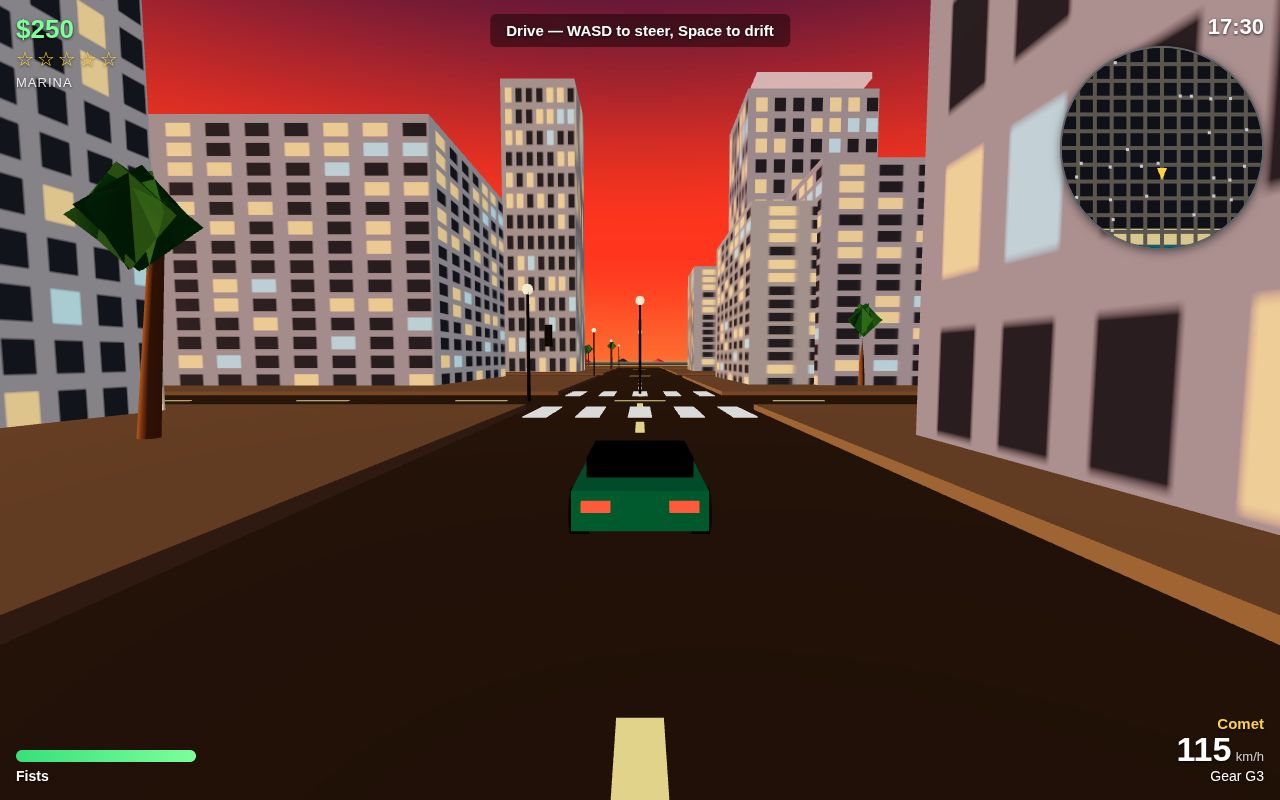
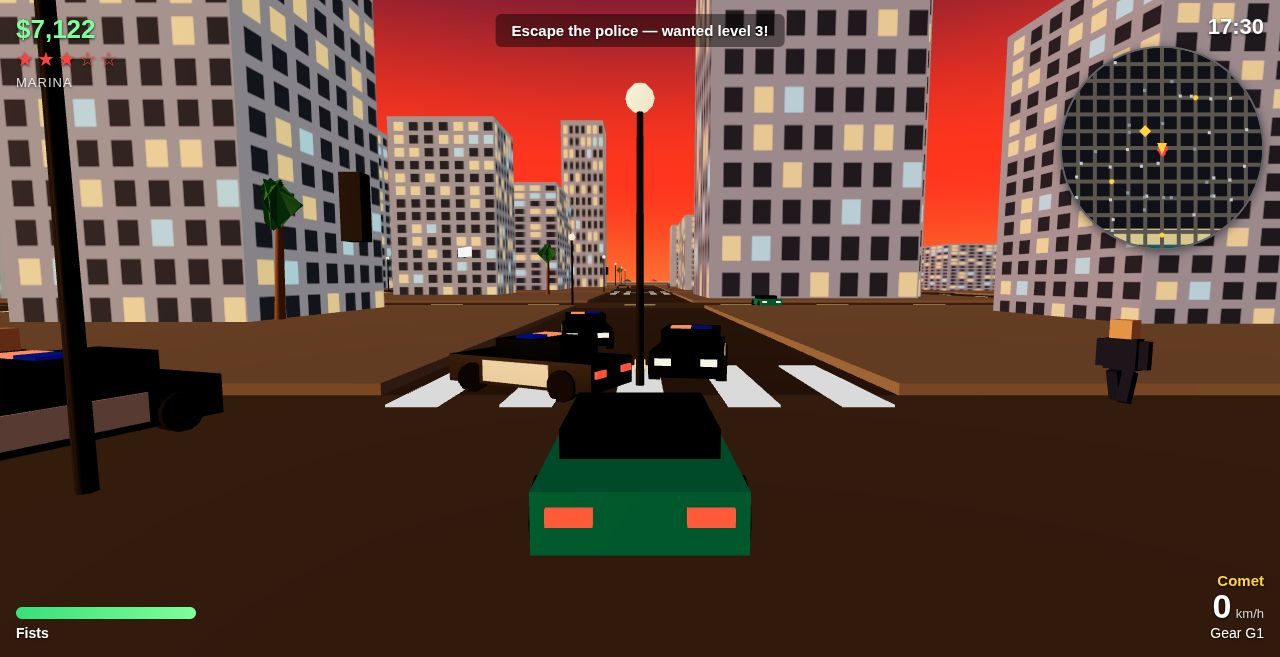
3d-systems: brighter night, staged police-chase cover, systems gates in main.ts
- engine.js: night lighting lifted (moon 0.6, hemi 0.9, ambient 1.0) so
  the neon-night shot reads — car + road were a black void at the old
  levels; still a night sky with lit windows.
- main.js: chase shot stages Dante's Comet stationary with two police
  cars closing in ahead (flashing light bars in frame) + two behind;
  a moving player outran every staged police car before the shot
  (closing ~50 m/s, ~2 sim-s to the screenshot), so no police car was
  ever visible in the cover. autoDrive only for 'drive' now.
- main.ts: gates for the five systems files (traffic, pedestrians,
  police + spawnChase, missions + startMission, weapons).
- Screenshots retaken (playtest run 17: ALL PASS 32/32, 0 console
  errors, 0 failed requests); all four viewed, all <=256 KiB.

diff --git a/game/src/main.js b/game/src/main.js
@@ -408,11 +408,22 @@ function stageShot() {
       engine.setTime(21.5);
       time = 21.5;
     } else if (SHOT === 'chase') {
+      // Cover shot: Dante's Comet STATIONARY (speed 0, no autoDrive) with
+      // police cars closing in ahead — a moving player outruns every staged
+      // police car before the screenshot (closing speed ~50 m/s, ~2 sim-s to
+      // the shot), so the chase cars behind the camera never appear in frame.
       sports.x = 0; sports.z = 0; sports.heading = 0;
-      sports.speed = 22;
+      sports.speed = 0;
       engine.setTime(17.5);
       time = 17.5;
       police.spawnChase(0, -6, 2);
+      // Two police cars ahead on the road, facing the player: at screenshot
+      // time (~2 sim-s) they are ~15m ahead, flashing light bars visible.
+      for (const [px, pz] of [[-7, 45], [7, 52]]) {
+        const pc = police.spawnPoliceCar(px, pz, true);
+        pc.car.heading = Math.PI;
+        pc.car.group.rotation.y = Math.PI;
+      }
       hud.setObjective('Escape the police — wanted level 3!');
     } else {
       sports.x = 0; sports.z = 0; sports.heading = 0;
@@ -426,7 +437,7 @@ function stageShot() {
     drivenCar = sports;
     sports.setHeadlight(engine.isNight);
     chaseYaw = sports.heading;
-    autoDrive = SHOT === 'drive' || SHOT === 'chase';
+    autoDrive = SHOT === 'drive'; // chase stays put (staged cover shot)
     if (SHOT === 'drive') sports.speed = 22;
     if (SHOT !== 'chase') hud.setObjective('Drive — WASD to steer, Space to drift');
   } else if (SHOT === 'foot') {

diff --git a/game/src/engine.js b/game/src/engine.js
@@ -98,9 +98,12 @@ export class Engine {
     this.sun.position.set(Math.cos(ang) * -500, Math.max(el, 0.04) * 320 + 20, -260);
     this.sun.target.position.set(0, 0, 0);
     if (night) {
-      this.sun.intensity = 0.25; this.sun.color.setHex(0x8fa8ff);
-      this.hemi.intensity = 0.35; this.hemi.color.setHex(0x2a3560); this.hemi.groundColor.setHex(0x1a1420);
-      this.amb.intensity = 0.5;
+      // Night is deliberately much brighter than a true night: the car paint
+      // and road are dark materials, and at moonlight levels the neon-night
+      // shot read as a black void. Still a night sky + lit windows.
+      this.sun.intensity = 0.6; this.sun.color.setHex(0x8fa8ff);
+      this.hemi.intensity = 0.9; this.hemi.color.setHex(0x2a3560); this.hemi.groundColor.setHex(0x1a1420);
+      this.amb.intensity = 1.0;
       this.scene.fog.color.setHex(0x1c1a33);
       this.sky.material.uniforms.top.value.setHex(0x0a0a28);
       this.sky.material.uniforms.mid.value.setHex(0x2c1e4e);

diff --git a/main.ts b/main.ts
@@ -76,6 +76,16 @@ mustContain('game/src/save.js', 'solmar-bay-save-v1');
 mustContain('game/src/save.js', 'writeSave');
 mustContain('game/src/audio.js', 'AudioStub');
 mustContain('game/src/audio.js', 'engineOsc');
+// v18 systems gates: the gameplay systems — traffic, pedestrians, police +
+// wanted, 8 story missions, combat — must actually be in the handed-in
+// sources, or the entry is only the core, not the finished game.
+mustContain('game/src/traffic.js', 'export class Traffic');
+mustContain('game/src/pedestrians.js', 'export class Pedestrians');
+mustContain('game/src/police.js', 'export class Police');
+mustContain('game/src/police.js', 'spawnChase');
+mustContain('game/src/missions.js', 'export class Missions');
+mustContain('game/src/missions.js', 'startMission');
+mustContain('game/src/weapons.js', 'export class Weapons');
 mustContain('game/index.html', 'importmap');
 mustContain('game/index.html', 'three.module.min.js');
 mustContain('game/index.html', 'play-btn');
